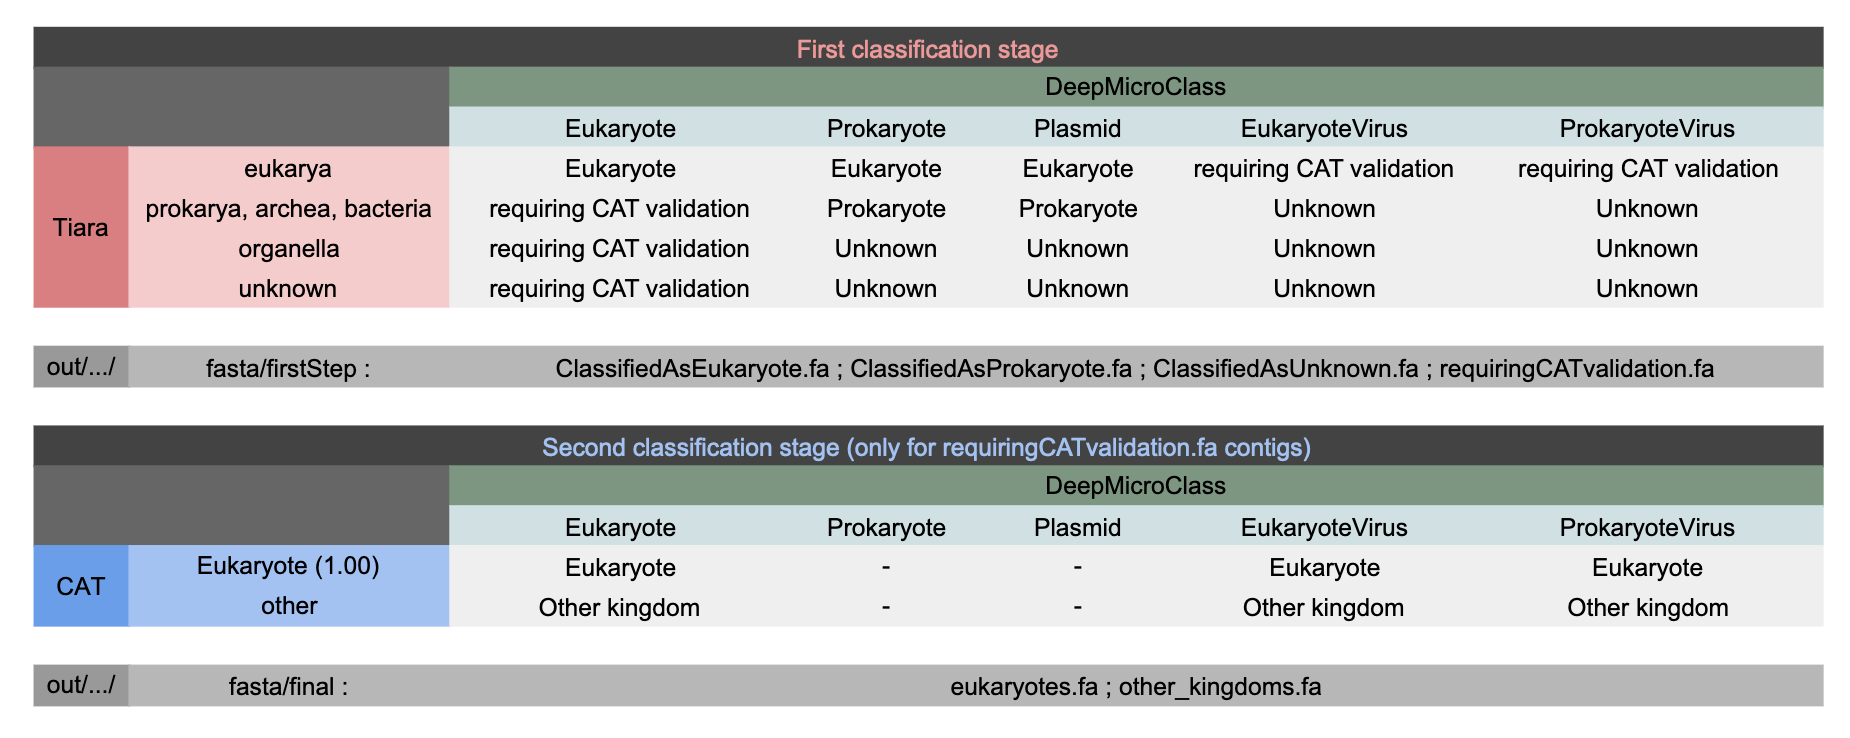
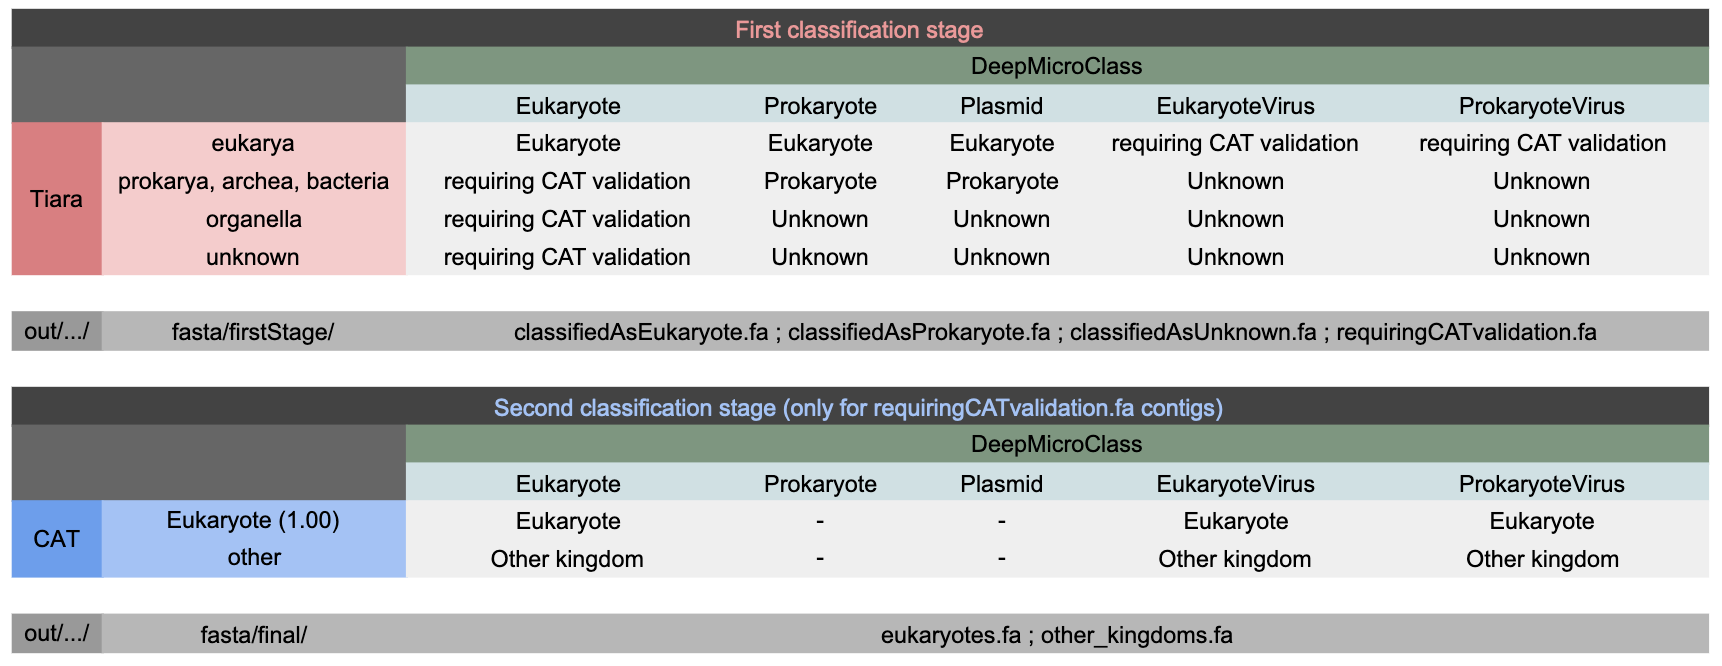
Optimize the pipeline by launching only one time the decisions and save_contigs modules {launched for each contig previously)
Rename step to stage and change the fasta names to lower case ones

diff --git a/bin/parse_dmc_classification.py b/bin/parse_dmc_classification.py
@@ -1,13 +1,19 @@
 # -*- coding: utf-8 -*-
-import sys
+import sys, os
 
-seqName = sys.argv[1].split(" ", 1)[0]
+def select_best_hit(predictions):
+  if 0 not in dmcValues:
+    maxIndex = dmcValues.index(max(dmcValues))
+    labels = ["Eukaryote", "EukaryoteVirus", "Plasmid", "Prokaryote", "ProkaryoteVirus"]
+    return labels[maxIndex]
+  else :
+    return 'Unknown'
 
-dmcValues = [float(arg) for arg in sys.argv[2:7]]
-
-if 0 not in dmcValues:
-  maxIndex = dmcValues.index(max(dmcValues))
-  labels = ["Eukaryote", "EukaryoteVirus", "Plasmid", "Prokaryote", "ProkaryoteVirus"]
-  print(f'{seqName}\t{labels[maxIndex]}')
-else :
-  print(f'{seqName}\tUnknown')
+with open(sys.argv[1], "r") as dmcPredictions, open("output.parse_dmc_classification", "w") as output :
+  lines = dmcPredictions.readlines()
+  for line in lines[1:] :
+    seqName = line.split("\t")[0].split(" ", 1)[0]
+    dmcValues = [float(score) for score in line.split("\t")[1:6]]
+    output.write(f'{seqName}\t{select_best_hit(dmcValues)}')
+    if line != lines[-1] :
+      output.write("\n")
